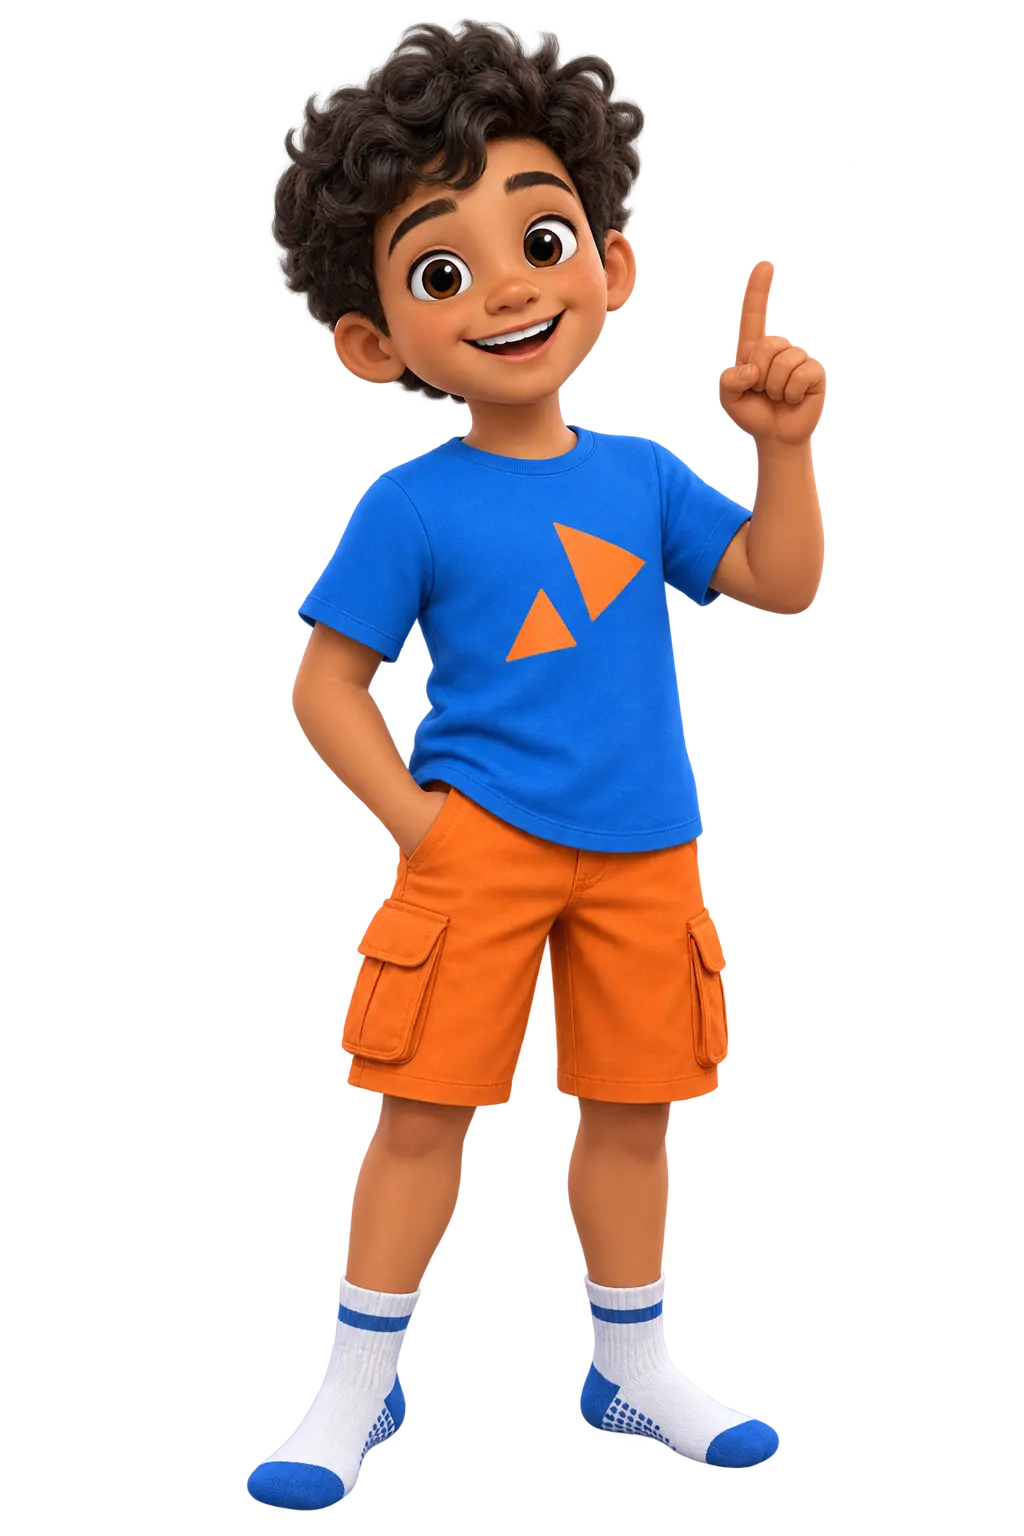
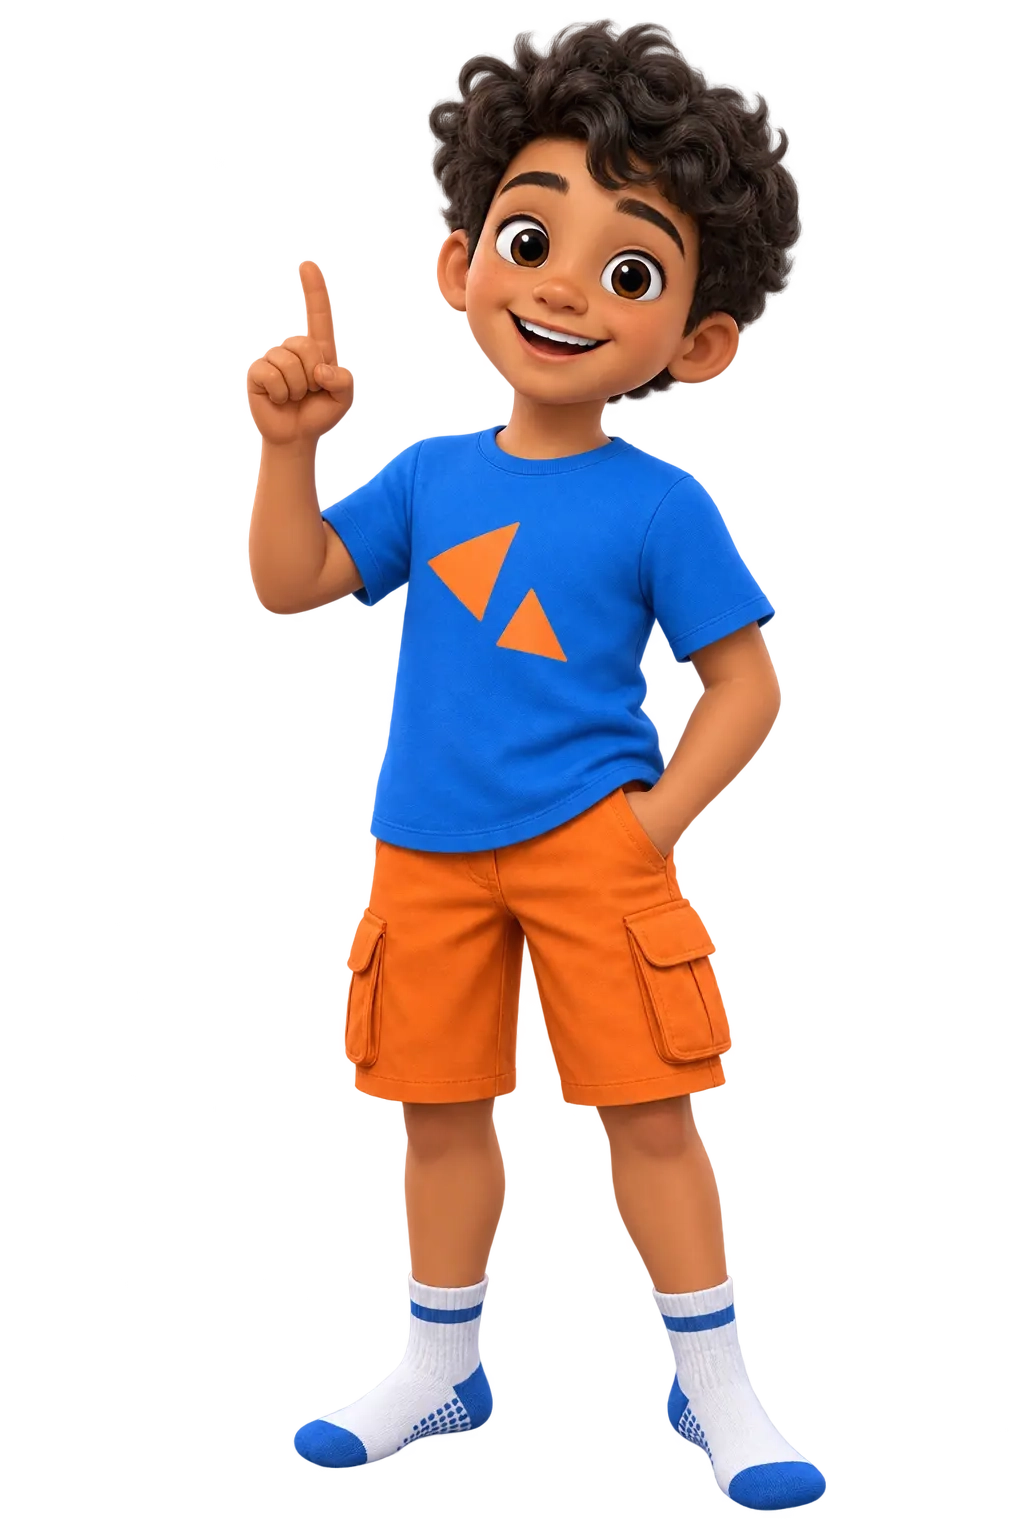
act 040

Changed region(s): [[0.2188, 0.0, 0.8125, 1.0]]

diff --git a/invitaciones/plantillas/fiestas-infantiles/fiesta-interactiva/index.html b/invitaciones/plantillas/fiestas-infantiles/fiesta-interactiva/index.html
@@ -135,7 +135,7 @@
             left: var(--x);
             top: var(--y);
             z-index: var(--z, 1);
-            width: var(--tamano);
+            width: calc(var(--tamano) * 1%);
             max-width: none;
             transform: translate(-50%, -50%) scaleX(var(--voltear, 1));
             transform-origin: center;
@@ -836,7 +836,7 @@
             .asset {
                 left: var(--x-movil);
                 top: var(--y-movil);
-                width: var(--tamano-movil);
+                width: calc(var(--tamano-movil) * 1%);
             }
 
             h1 {
@@ -964,7 +964,7 @@
                 <div class="separador-color">●</div>
                 <p class="edad">Cumple <span data-edad>6</span> años</p>
             </div>
-            <button class="boton-juego navegacion-escena siguiente" type="button">Comenzar la diversión →</button>
+            <button class="boton-juego navegacion-escena siguiente" type="button">Comenzar →</button>
         </section>
         <section class="escena" id="cuenta">
             <img class="fondo" src="assets/fondos/fondo02.webp" alt="">
@@ -1011,7 +1011,7 @@
                             data-ciudad>Cadereyta, Nuevo León</span></div>
                 </div>
             </div>
-            <button class="boton-juego navegacion-escena siguiente" type="button">Entrar a la zona de juegos →</button>
+            <button class="boton-juego navegacion-escena siguiente" type="button">Siguiente zona →</button>
         </section>
         <section class="escena" id="mision">
             <img class="fondo" src="assets/fondos/fondo04.webp" alt="">
@@ -1061,7 +1061,7 @@
                     </li>
                 </ul>
             </div>
-            <button class="boton-juego navegacion-escena siguiente" type="button">Ir por un descanso →</button>
+            <button class="boton-juego navegacion-escena siguiente" type="button">Vayamos a comer →</button>
         </section>
         <section class="escena" id="regalo">
             <img class="fondo" src="assets/fondos/fondo06.webp" alt="">
@@ -1079,7 +1079,7 @@
                 <div class="separador-color">★</div>
                 <p class="nombre">¡Todavía queda más diversión!</p>
             </div>
-            <button class="boton-juego navegacion-escena siguiente" type="button">Llegar a la celebración →</button>
+            <button class="boton-juego navegacion-escena siguiente" type="button">Llegar al final →</button>
         </section>
         <section class="escena" id="final">
             <img class="fondo" src="assets/fondos/fondo07.webp" alt="">
@@ -1121,8 +1121,8 @@
             mapa: "",
             salida: "../../../#fiestas-infantiles",
         };
-        /* POSICIONES EDITABLES: valores CSS exactos del diseño original.
-           x / y: posición. tamano: ancho; admite vw, px, min() y clamp().
+        /* POSICIONES EDITABLES DE PERSONAJES Y ELEMENTOS.
+           x / y: posición. tamano: un solo número como porcentaje de la pantalla.
            Web y móvil son independientes. capa y voltear se comparten. */
         const POSICIONES = {
             "inicio": {
@@ -1130,12 +1130,12 @@
                     "web": {
                         "x": "81.5%",
                         "y": "84%",
-                        "tamano": "27vw"
+                        "tamano": 27
                     },
                     "movil": {
                         "x": "84%",
                         "y": "82%",
-                        "tamano": "min(27vw, 43vw)"
+                        "tamano": 27
                     },
                     "capa": 6,
                     "voltear": false
@@ -1146,26 +1146,26 @@
                     "web": {
                         "x": "18%",
                         "y": "78%",
-                        "tamano": "25vw"
+                        "tamano": 25
                     },
                     "movil": {
                         "x": "12%",
                         "y": "78%",
-                        "tamano": "min(25vw, 43vw)"
+                        "tamano": 25
                     },
                     "capa": 6,
-                    "voltear": true
+                    "voltear": false
                 },
                 "elemento-cuenta": {
                     "web": {
                         "x": "87%",
                         "y": "31%",
-                        "tamano": "clamp(88px,11vw,145px)"
+                        "tamano": 11
                     },
                     "movil": {
                         "x": "87%",
-                        "y": "31%",
-                        "tamano": "min(clamp(88px,11vw,145px), 24vw)"
+                        "y": "35%",
+                        "tamano": 16
                     },
                     "capa": 6,
                     "voltear": false
@@ -1176,12 +1176,12 @@
                     "web": {
                         "x": "83%",
                         "y": "83%",
-                        "tamano": "25vw"
+                        "tamano": 25
                     },
                     "movil": {
-                        "x": "88%",
+                        "x": "86%",
                         "y": "83%",
-                        "tamano": "min(25vw, 43vw)"
+                        "tamano": 25
                     },
                     "capa": 6,
                     "voltear": false
@@ -1190,12 +1190,12 @@
                     "web": {
                         "x": "13%",
                         "y": "32%",
-                        "tamano": "clamp(88px,11vw,145px)"
+                        "tamano": 18
                     },
                     "movil": {
                         "x": "13%",
                         "y": "32%",
-                        "tamano": "min(clamp(88px,11vw,145px), 24vw)"
+                        "tamano": 20
                     },
                     "capa": 6,
                     "voltear": false
@@ -1206,12 +1206,12 @@
                     "web": {
                         "x": "18%",
                         "y": "83%",
-                        "tamano": "25vw"
+                        "tamano": 25
                     },
                     "movil": {
                         "x": "12%",
                         "y": "83%",
-                        "tamano": "min(25vw, 43vw)"
+                        "tamano": 25
                     },
                     "capa": 6,
                     "voltear": false
@@ -1220,12 +1220,12 @@
                     "web": {
                         "x": "87%",
                         "y": "32%",
-                        "tamano": "clamp(88px,11vw,145px)"
+                        "tamano": 15
                     },
                     "movil": {
-                        "x": "87%",
-                        "y": "32%",
-                        "tamano": "min(clamp(88px,11vw,145px), 24vw)"
+                        "x": "50%",
+                        "y": "25%",
+                        "tamano": 30
                     },
                     "capa": 6,
                     "voltear": false
@@ -1236,12 +1236,12 @@
                     "web": {
                         "x": "82%",
                         "y": "83%",
-                        "tamano": "25vw"
+                        "tamano": 25
                     },
                     "movil": {
                         "x": "88%",
-                        "y": "83%",
-                        "tamano": "min(25vw, 43vw)"
+                        "y": "80%",
+                        "tamano": 25
                     },
                     "capa": 6,
                     "voltear": false
@@ -1250,12 +1250,12 @@
                     "web": {
                         "x": "13%",
                         "y": "32%",
-                        "tamano": "clamp(88px,11vw,145px)"
+                        "tamano": 15
                     },
                     "movil": {
                         "x": "13%",
                         "y": "32%",
-                        "tamano": "min(clamp(88px,11vw,145px), 24vw)"
+                        "tamano": 20
                     },
                     "capa": 6,
                     "voltear": false
@@ -1265,27 +1265,27 @@
                 "personaje-regalo": {
                     "web": {
                         "x": "18%",
-                        "y": "72%",
-                        "tamano": "25vw"
+                        "y": "85%",
+                        "tamano": 25
                     },
                     "movil": {
                         "x": "12%",
-                        "y": "72%",
-                        "tamano": "min(25vw, 43vw)"
+                        "y": "80%",
+                        "tamano": 25
                     },
                     "capa": 6,
-                    "voltear": true
+                    "voltear": false
                 },
                 "elemento-regalo": {
                     "web": {
                         "x": "87%",
                         "y": "31%",
-                        "tamano": "clamp(92px,12vw,155px)"
+                        "tamano": 15
                     },
                     "movil": {
                         "x": "87%",
-                        "y": "31%",
-                        "tamano": "min(clamp(92px,12vw,155px), 24vw)"
+                        "y": "36%",
+                        "tamano": 20
                     },
                     "capa": 6,
                     "voltear": false
@@ -1296,12 +1296,12 @@
                     "web": {
                         "x": "82%",
                         "y": "72%",
-                        "tamano": "26vw"
+                        "tamano": 26
                     },
                     "movil": {
                         "x": "88%",
                         "y": "72%",
-                        "tamano": "min(26vw, 43vw)"
+                        "tamano": 26
                     },
                     "capa": 6,
                     "voltear": false
@@ -1310,12 +1310,12 @@
                     "web": {
                         "x": "14%",
                         "y": "73%",
-                        "tamano": "13vw"
+                        "tamano": 15
                     },
                     "movil": {
                         "x": "14%",
                         "y": "73%",
-                        "tamano": "min(13vw, 25vw)"
+                        "tamano": 20
                     },
                     "capa": 5,
                     "voltear": false
@@ -1323,7 +1323,6 @@
             }
         };
         // FIN DE DATOS EDITABLES. No es necesario cambiar el código inferior.
-
         const $ = (selector, contexto = document) => contexto.querySelector(selector);
         const $$ = (selector, contexto = document) => [...contexto.querySelectorAll(selector)];
         const escenas = $$(".escena");
